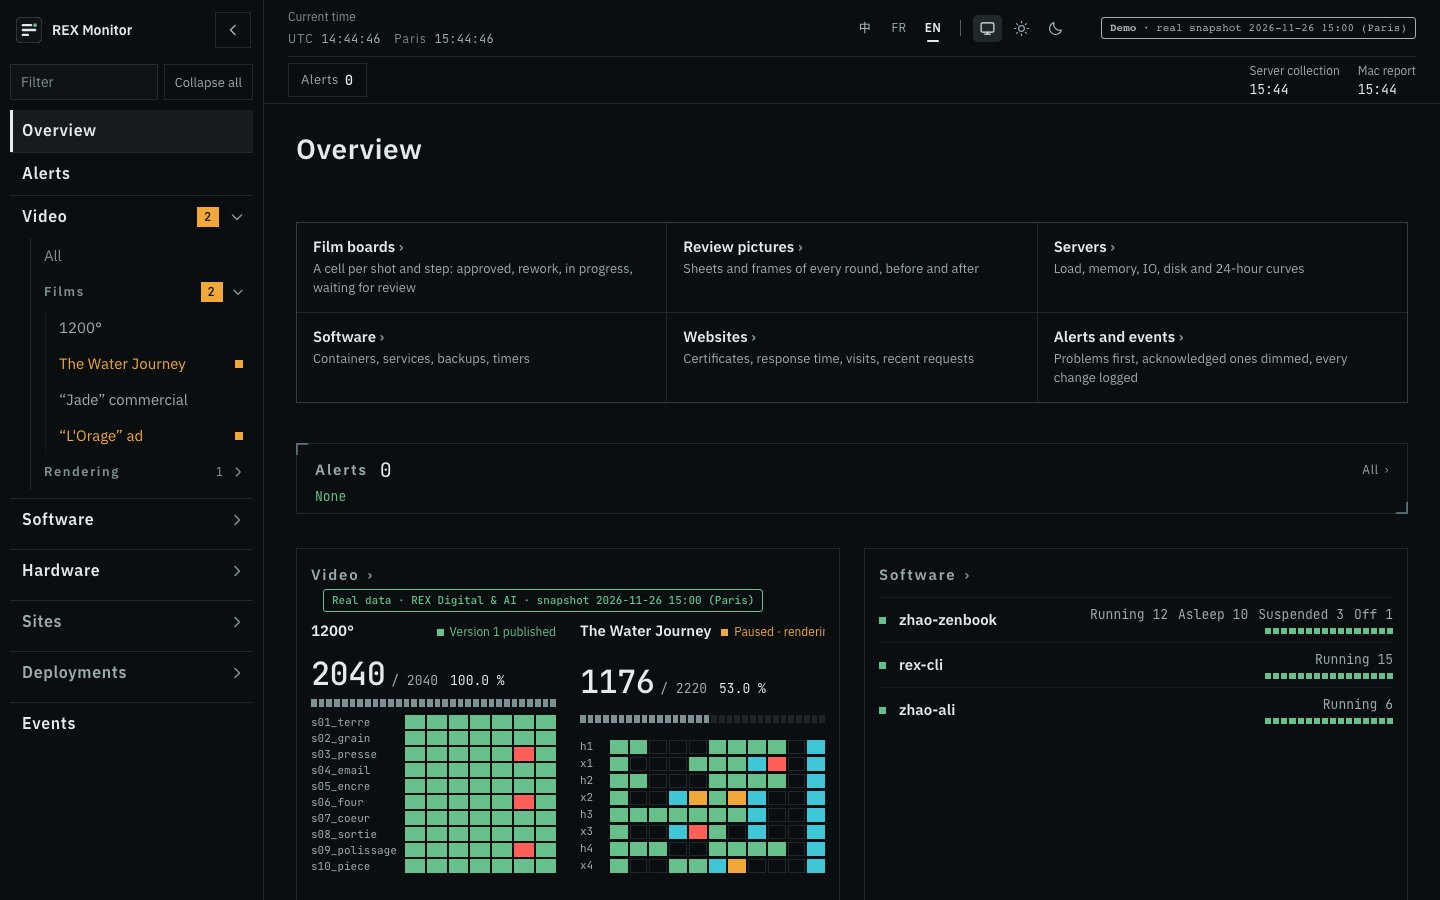
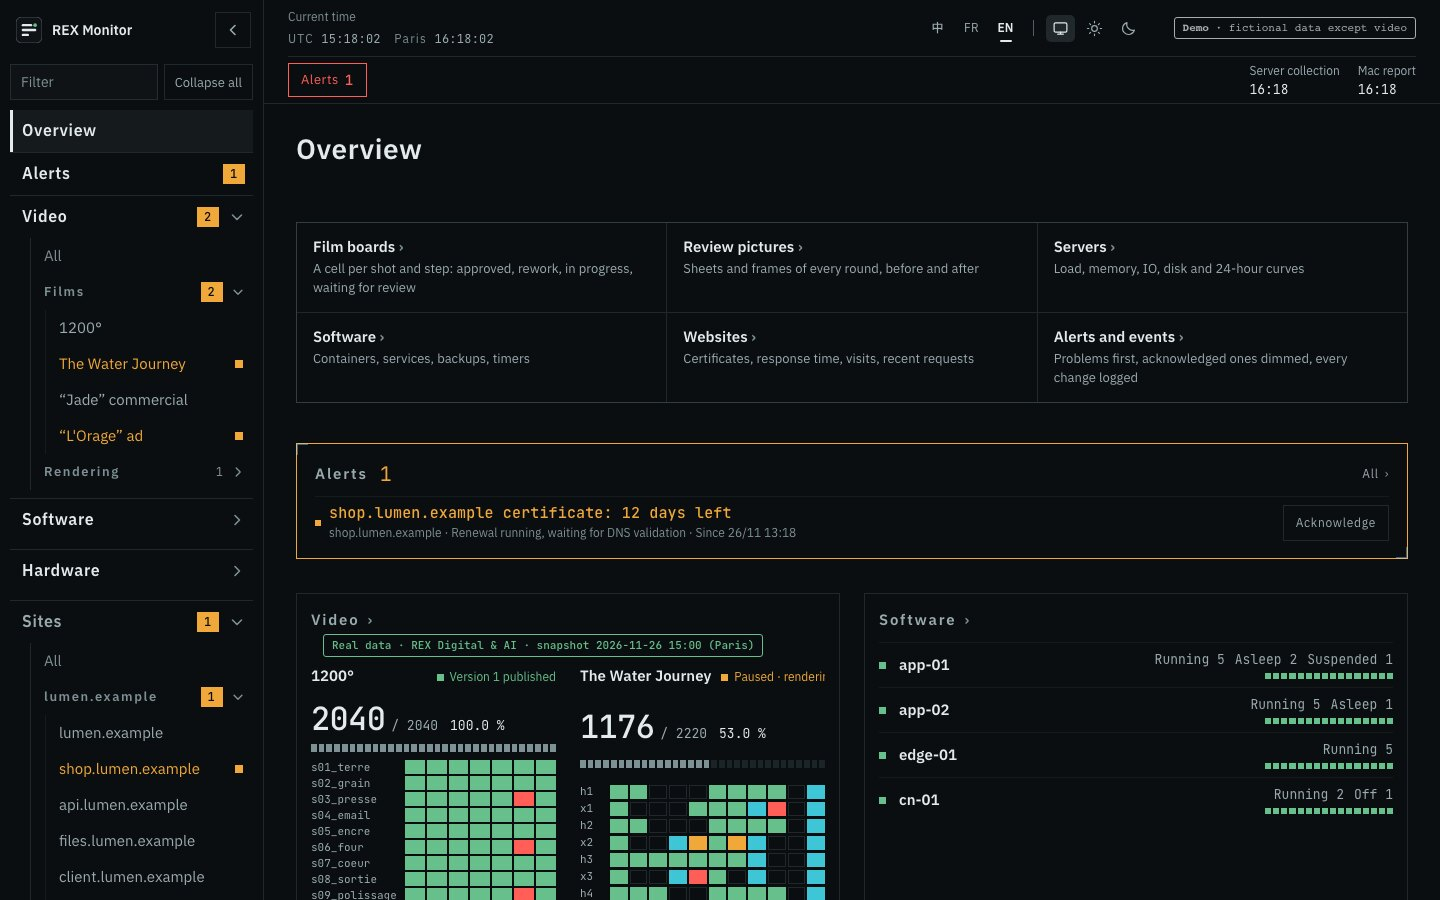
REX Monitor demo: only the film part is real, the rest is fictional
New description and demo paragraph in zh, en, fr; new covers.

diff --git a/src/content/projects/rex-monitor.md b/src/content/projects/rex-monitor.md
@@ -1,6 +1,6 @@
 ---
 title: "REX Monitor (demo)"
-description: "Monitor for servers, websites, backups and film production; a real data snapshot with private details removed"
+description: "Monitor for servers, websites, backups and film production; the film part is real data, the rest is fictional"
 date: 2026-11-26
 status: active
 tags: ["Python", "systemd", "JavaScript", "nginx"]
@@ -11,30 +11,30 @@ i18n:
     cover: "/images/projects/rex-monitor-en.jpg"
     demo: "https://demos.rex31.com/monitor/?lang=en"
     title: "REX Monitor (demo)"
-    description: "Monitor for servers, websites, backups and film production; a real data snapshot with private details removed"
+    description: "Monitor for servers, websites, backups and film production; the film part is real data, the rest is fictional"
     sections:
       - paragraphs:
           - "REX Monitor is the internal monitor of REX Digital & AI. An engine on the public server (rex-ovh) runs every 60 s, and small read-only pushers on three other servers and on the studio Mac send it their readings. The page shows four servers (load, memory, IO, disk, 24-hour curves), the software on each (containers, services, backups, timers), about 30 websites (days left on the certificate, response time, visits, recent requests), releases, alerts that can be acknowledged, and an event log. Each film has its own board: one row per shot, one column per step (render, review, encode, publish), the review pictures of every round and the review notes. Every view is available in Chinese, English and French, with a light and a dark theme."
-          - "The demo is the monitor's own page running on a real snapshot taken on 26 November 2026 at 15:00, Paris time. Visitor addresses, names in the access logs, the owner's decisions, private links, and the location and battery of the Mac were removed. The films shown are REX Digital & AI productions: two in progress (The Water Journey, L'Orage) and two finished (1200°, Jade). The clock keeps running and the timestamps move with it, so the page reads as it did at the time of the snapshot."
+          - "The demo is the monitor’s own page. Only the film part is real: the film boards, review pictures, clips and review notes come from a snapshot taken on 26 November 2026 at 15:00, Paris time, and carry a green label “Real data · REX Digital & AI” with that time. Everything else is fictional: the servers app-01, app-02, edge-01 and cn-01, their software, the websites under the reserved .example domain, the alerts and the events. The top bar reads “Demo · fictional data except video”. The films are REX Digital & AI productions: two in progress (The Water Journey, L’Orage) and two finished (1200°, Jade). The clock keeps running and the timestamps move with it, so the page reads as it did at the time of the snapshot."
           - "The engine is written in Python and run by systemd timers. The pushers connect over ssh with forced commands. The page is static JavaScript without a framework, served by nginx."
   zh:
     cover: "/images/projects/rex-monitor-zh.jpg"
     demo: "https://demos.rex31.com/monitor/?lang=zh"
     title: "REX 监控（演示版）"
-    description: "服务器、网站、备份和影片制作进度的监控页；真实数据快照，私人信息已去掉"
+    description: "服务器、网站、备份和影片制作进度的监控页；影片部分是真实数据，其余为虚构"
     sections:
       - paragraphs:
           - "REX 监控是 REX Digital & AI 内部用的监控。公网服务器（rex-ovh）上的引擎每 60 秒运行一次，另外三台服务器和工作室的 Mac 上各有一个只读的小推送程序，把读数发过来。页面上有四台服务器（负载、内存、IO、磁盘和 24 小时曲线），每台上的软件（容器、服务、备份、定时任务），约 30 个网站（证书剩余天数、响应时间、访问量、最近的请求），发布记录，可以确认的告警，以及事件日志。影片制作每部片子一张看板：每个镜头一行，每个步骤一列（渲染、审片、编码、发布），每一轮的审片截图和审片意见都在上面。所有页面都有中文、英文、法文三种语言，以及浅色和深色两种主题。"
-          - "演示版就是监控本身的页面，数据是 2026 年 11 月 26 日 15:00（巴黎时间）的真实快照。访客地址、访问日志里的人名、负责人的决定、私人链接，以及 Mac 的位置和电量都已去掉。页面上的影片都是 REX Digital & AI 的作品，其中《水之旅》和《L'Orage》在制作中，《1200°》和《Jade》已完成。时钟照常走，时间戳跟着变，所以页面读起来和快照那一刻一样。"
+          - "演示版就是监控本身的页面。只有影片部分是真实数据：影片看板、审片截图、片段和审片意见取自 2026 年 11 月 26 日 15:00（巴黎时间）的快照，旁边有绿色标签「真实数据 · REX Digital & AI」和快照时间。其余都是虚构的：服务器 app-01、app-02、edge-01、cn-01，上面的软件，用保留域名 .example 的网站，告警和事件。顶栏写着「演示 · 除视频外均为虚构数据」。页面上的影片都是 REX Digital & AI 的作品，其中《水之旅》和《L'Orage》在制作中，《1200°》和《Jade》已完成。时钟照常走，时间戳跟着变，所以页面读起来和快照那一刻一样。"
           - "引擎用 Python 编写，由 systemd 定时器运行；推送程序通过 ssh 强制命令连接。页面是不用框架的静态 JavaScript，由 nginx 提供。"
   fr:
     cover: "/images/projects/rex-monitor-fr.jpg"
     demo: "https://demos.rex31.com/monitor/?lang=fr"
     title: "Supervision REX (démo)"
-    description: "Supervision des serveurs, sites, sauvegardes et films en production ; relevé de données réelles, informations privées retirées"
+    description: "Supervision des serveurs, sites, sauvegardes et films en production ; la partie films est réelle, le reste est fictif"
     sections:
       - paragraphs:
           - "Supervision REX est l’outil de supervision interne de REX Digital & AI. Un moteur tourne toutes les 60 s sur le serveur public (rex-ovh) ; de petits envoyeurs en lecture seule, sur trois autres serveurs et sur le Mac du studio, lui transmettent leurs relevés. La page présente quatre serveurs (charge, mémoire, E/S, disque, courbes sur 24 heures), les logiciels de chacun (conteneurs, services, sauvegardes, minuteurs), une trentaine de sites (jours restants du certificat, temps de réponse, visites, dernières requêtes), les mises en production, des alertes que l’on peut acquitter et un journal des événements. Chaque film a son tableau : une ligne par plan, une colonne par étape (rendu, validation, encodage, publication), les images de validation de chaque tour et les remarques. Toutes les vues existent en chinois, en anglais et en français, en thème clair et en thème sombre."
-          - "La démo est la page même de la supervision, alimentée par un relevé réel pris le 26 novembre 2026 à 15 h (heure de Paris). Les adresses des visiteurs, les noms figurant dans les journaux d’accès, les décisions du responsable, les liens privés ainsi que la position et la batterie du Mac ont été retirés. Les films affichés sont des productions de REX Digital & AI : deux en cours (« Le voyage de l’eau », « L’Orage ») et deux terminés (« 1200° », « Jade »). L’horloge tourne et les horodatages avancent avec elle : la page se lit comme au moment du relevé."
+          - "La démo est la page même de la supervision. Seule la partie films est réelle : les tableaux des films, les images de validation, les extraits et les remarques viennent d’un relevé pris le 26 novembre 2026 à 15 h (heure de Paris) et portent l’étiquette verte « Données réelles · REX Digital & AI » avec l’heure du relevé. Tout le reste est fictif : les serveurs app-01, app-02, edge-01 et cn-01, leurs logiciels, les sites sous le domaine réservé .example, les alertes et les événements. La barre du haut indique « Démo · données fictives, sauf la vidéo ». Les films affichés sont des productions de REX Digital & AI : deux en cours (« Le voyage de l’eau », « L’Orage ») et deux terminés (« 1200° », « Jade »). L’horloge tourne et les horodatages avancent avec elle : la page se lit comme au moment du relevé."
           - "Le moteur est écrit en Python et lancé par des minuteurs systemd. Les envoyeurs se connectent en ssh avec des commandes forcées. La page est en JavaScript statique, sans framework, servie par nginx."
 ---
